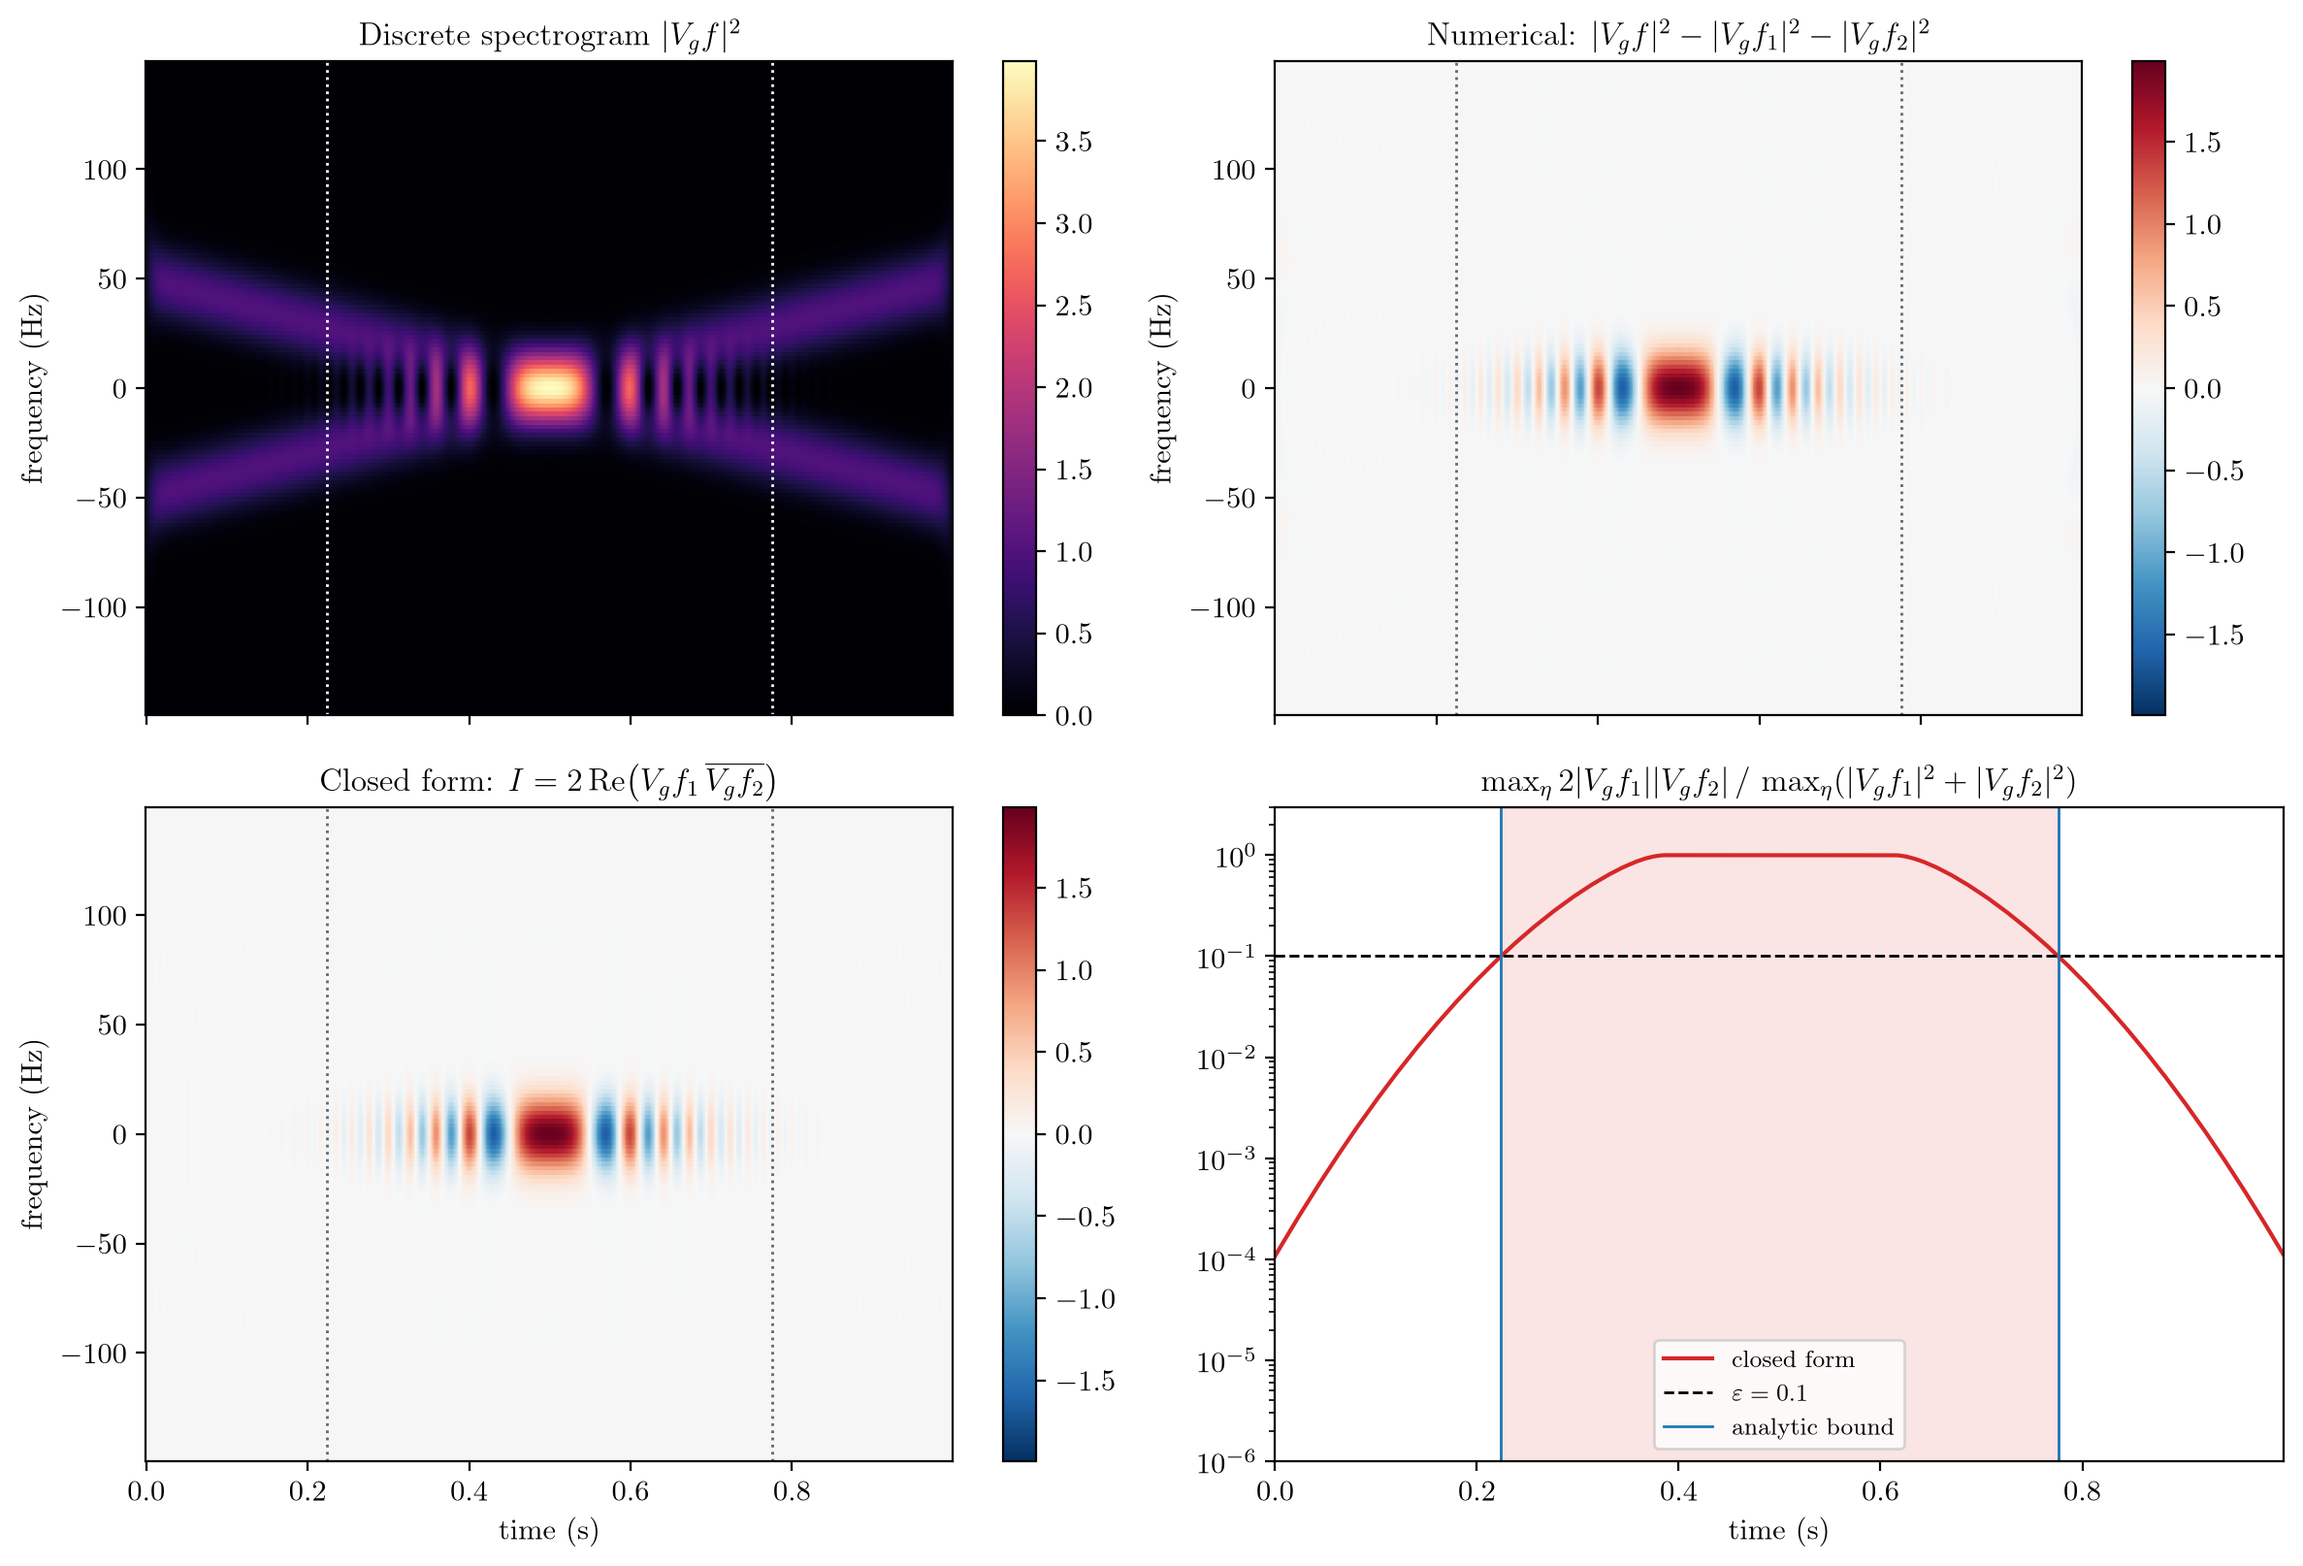
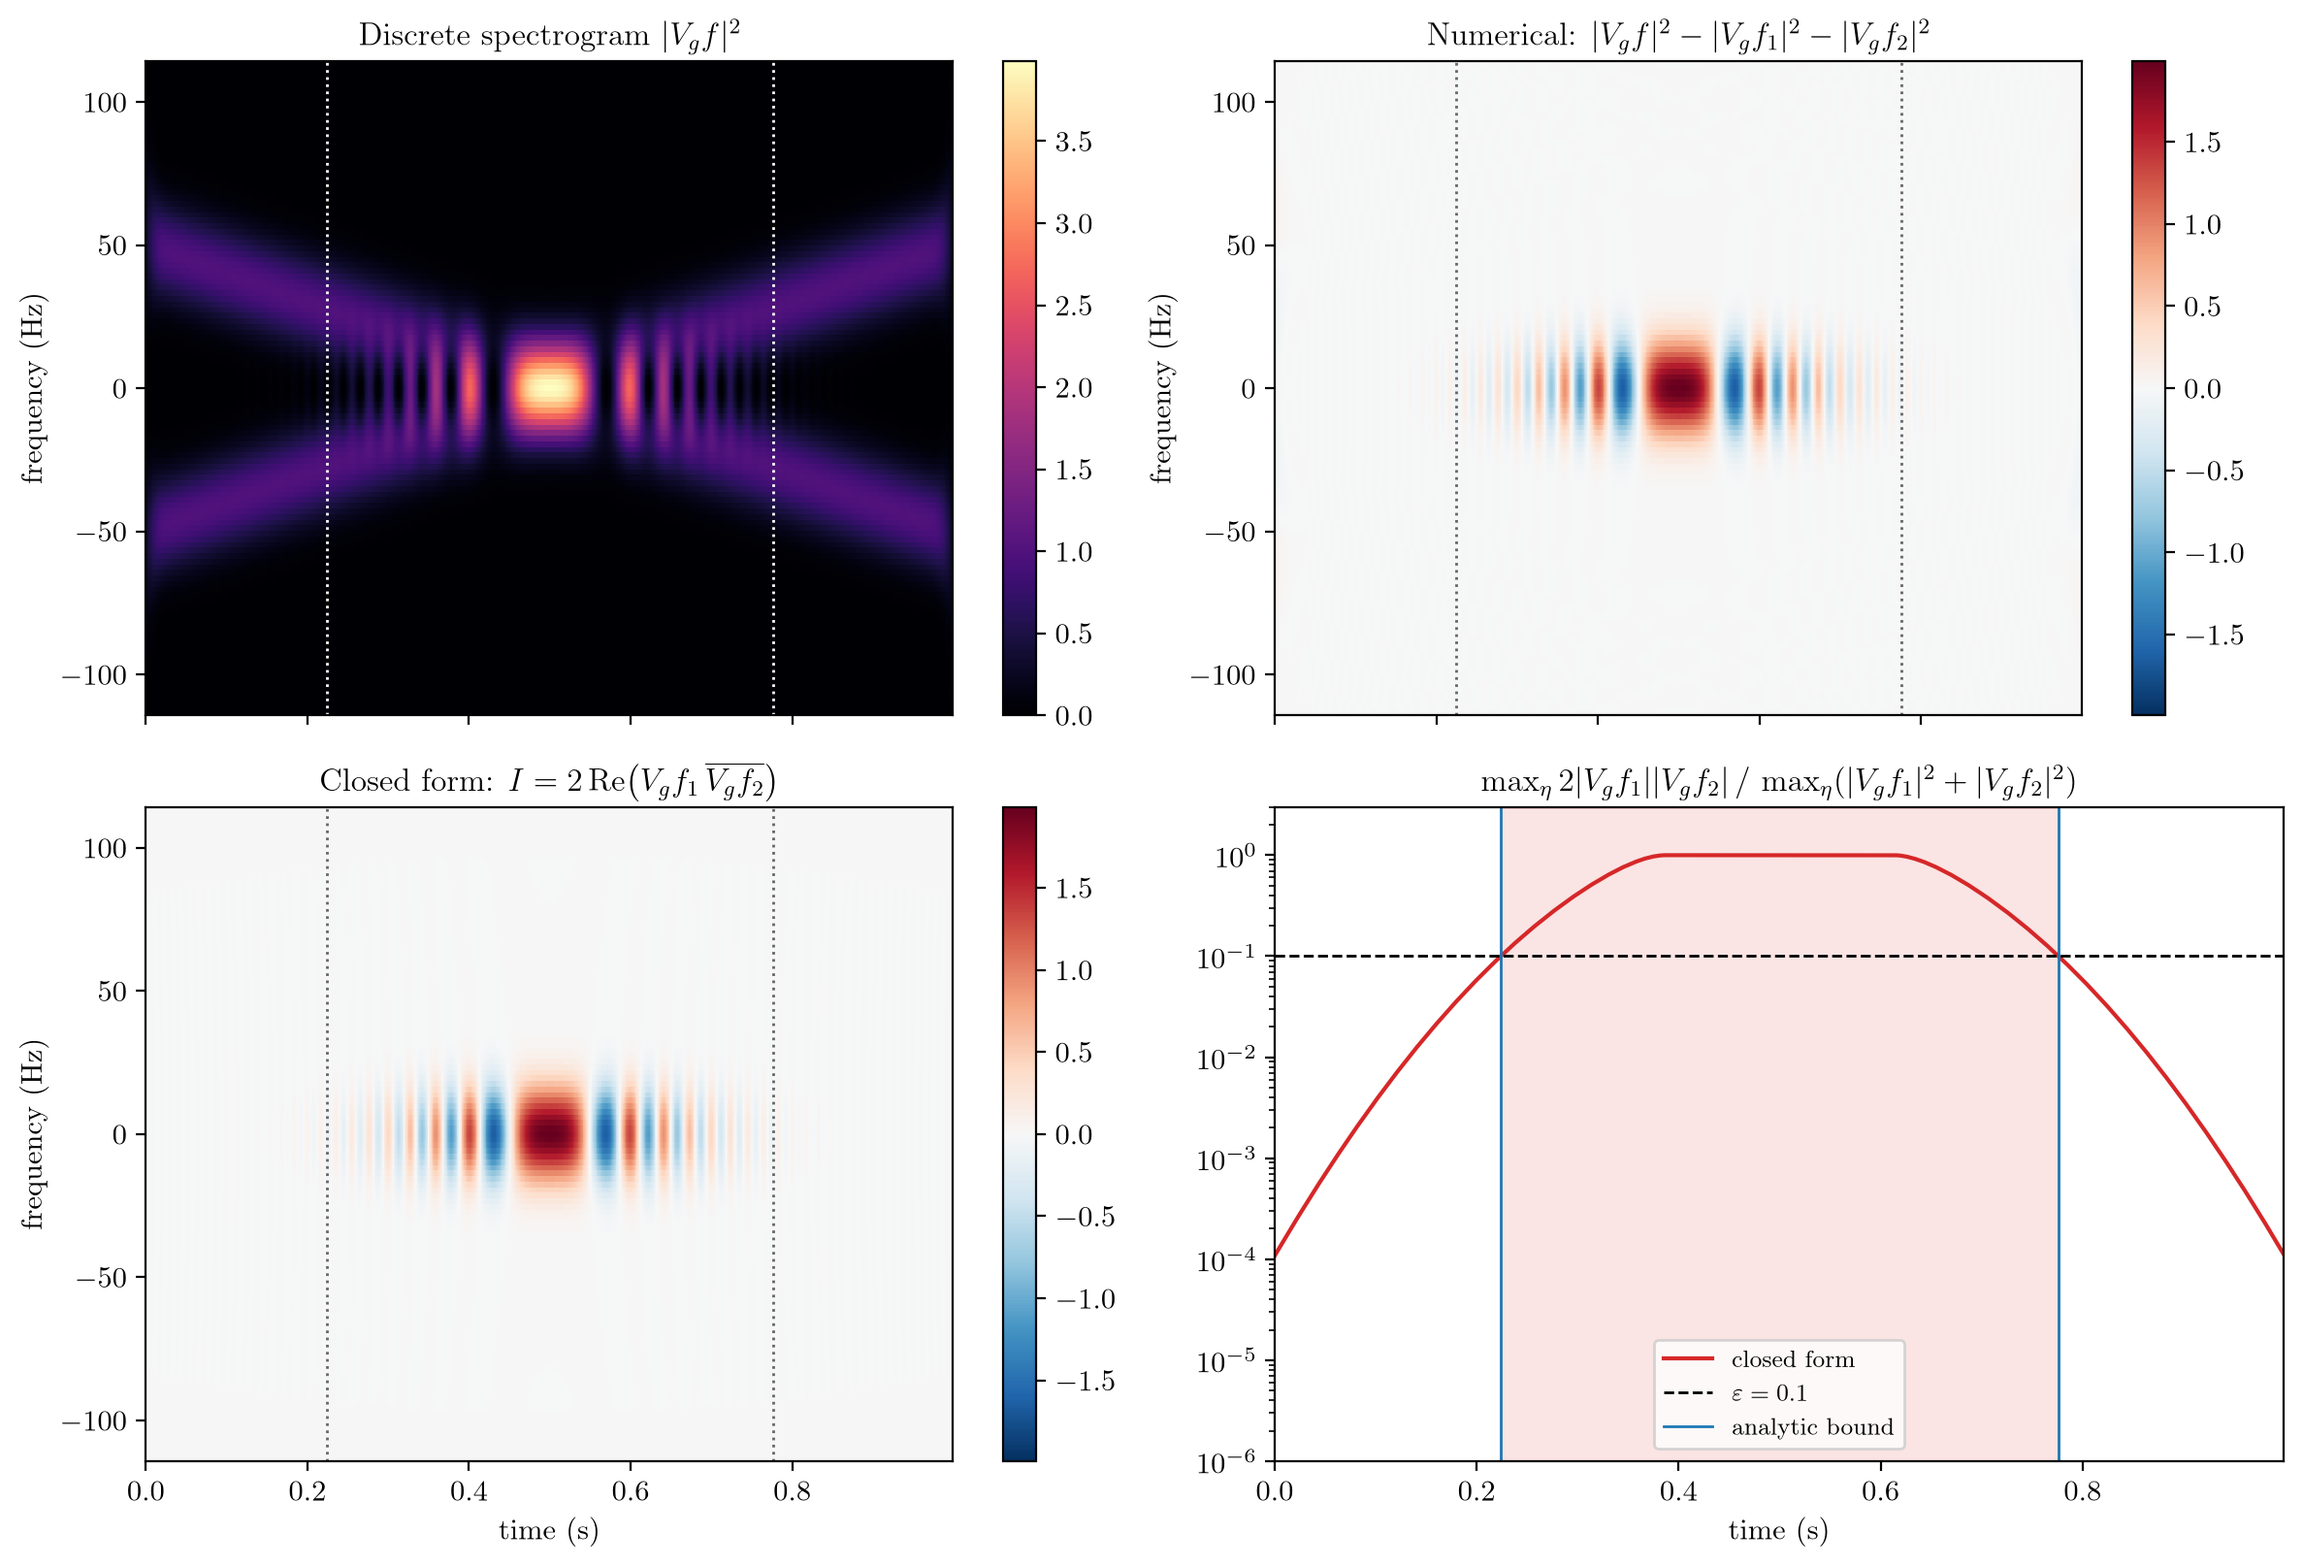
Fix axis scaling and edge handling in chirp-interference

diff --git a/python/chirp_interf/experiments/chirp_interference.py b/python/chirp_interf/experiments/chirp_interference.py
@@ -8,8 +8,9 @@ For f = f1 + f2 with rates -a and +a, the script computes:
 * the relative interference level per frame and the zone where it exceeds eps,
   together with the analytic bound Delta(t) < sqrt(D ln(2/eps)) / (pi sigma).
 
-It logs the maximal gap between the discrete and closed-form spectrograms and
-the interference zones, and saves a 2x2 figure.
+It logs the maximal gap between the discrete and closed-form spectrograms, and
+between the numerical and closed-form interference terms, on the frames whose
+window lies inside the signal; then the interference zones, and saves a 2x2 figure.
 
 Usage
 -----
@@ -33,9 +34,9 @@ from chirp_interf.plotting import configure_matplotlib, save_figure
 
 log = get_logger(__name__)
 
-#: Fraction of the signal duration excluded at each end when comparing with the
-#: closed form (zero padding biases the discrete STFT near the edges).
-EDGE = 0.05
+#: Number of ridge standard deviations kept around the instantaneous frequencies
+#: when cropping the frequency axis of the figure.
+CROP_STD = 4.0
 
 
 def parse_args() -> argparse.Namespace:
@@ -82,7 +83,11 @@ def plot(times, freqs, maps, ratio, zones, bound, args) -> plt.Figure:
     -------
     matplotlib.figure.Figure
     """
-    sel = np.abs(freqs) <= 1.5 * (args.f0 + 0.5 * args.rate)     # crop empty frequencies
+    # Crop empty frequencies: keep the range swept by the instantaneous frequencies
+    # (f0 - rate t and -f0 + rate t for t in [0, 1]) plus CROP_STD ridge standard deviations.
+    ridge_std = np.sqrt(1 + (2 * np.pi * args.rate * args.win**2) ** 2) / (2 * np.pi * args.win)
+    if_max = max(abs(args.f0), abs(args.f0 - args.rate))
+    sel = np.abs(freqs) <= if_max + CROP_STD * ridge_std
     fig, axes = plt.subplots(2, 2, figsize=(12, 8.2), sharex=True)
 
     for ax, (Z, title, cmap, symmetric) in zip(axes.flat, maps):
@@ -99,13 +104,15 @@ def plot(times, freqs, maps, ratio, zones, bound, args) -> plt.Figure:
         for x in (lo, hi):
             for a_, c in zip(axes.flat[:3], ("w", "0.4", "0.4")):    # zone limits on the maps
                 a_.axvline(x, color=c, ls=":", lw=1)
-    for x in bound:
-        ax.axvline(x, color="tab:blue", lw=1)
+    for x in bound:                                   # draw only the limits inside the signal
+        if times[0] <= x <= times[-1]:
+            ax.axvline(x, color="tab:blue", lw=1)
     ax.plot([], [], color="tab:blue", lw=1, label=r"analytic bound")   # legend entry only
     ax.set(title=r"$\max_\eta 2|V_g f_1||V_g f_2| \,/\, \max_\eta (|V_g f_1|^2 + |V_g f_2|^2)$",
            ylim=(1e-6, 3), xlabel=r"time (s)")
     ax.legend(loc="lower center")
     axes[1, 0].set_xlabel(r"time (s)")
+    axes[0, 0].set_xlim(times[0], times[-1])          # shared by all panels
     fig.tight_layout()
     return fig
 
@@ -135,9 +142,18 @@ def main() -> None:
     half = itf.symmetric_gap_threshold(a, args.win, args.eps) / (2 * args.rate)
     tc = (b2 - b1) / (2 * a)
 
-    inner = (times > EDGE) & (times < times[-1] - EDGE)
-    err = np.max(np.abs(np.abs(V) ** 2 - (E1 + E2 + I))[:, inner])
-    log.info("max | |V_g f|^2 - closed form | = %.2e (peak %.3f)", err, np.max(np.abs(V) ** 2))
+    # Compare only the frames whose window lies entirely inside the signal: elsewhere
+    # the zero padding of the discrete STFT departs from the closed form on R.
+    half_window = (len(g) - 1) / 2 / args.fs
+    inner = (times >= half_window) & (times <= times[-1] - half_window)
+    if inner.any():
+        err = np.max(np.abs(np.abs(V) ** 2 - (E1 + E2 + I))[:, inner])
+        err_I = np.max(np.abs(I_num - I)[:, inner])
+        log.info("on [%.3f, %.3f] s (window inside the signal):", times[inner][0], times[inner][-1])
+        log.info("  max | |V_g f|^2 - (E1 + E2 + I) | = %.2e (peak %.3f)", err, np.max(np.abs(V) ** 2))
+        log.info("  max | I numerical - I closed form | = %.2e (peak %.3f)", err_I, np.max(np.abs(I)))
+    else:
+        log.warning("window (half-length %.3f s) longer than half the signal: no frame to compare", half_window)
     log.info("interference zones (eps = %g): %s s", args.eps, [(round(lo, 3), round(hi, 3)) for lo, hi in zones])
     log.info("analytic bound: [%.3f, %.3f] s", tc - half, tc + half)
 

diff --git a/README.md b/README.md
@@ -400,7 +400,7 @@ They cross at $`t = 0.5`$ s. The Gaussian window has standard deviation $`\sigma
 
 <br>
 
-The comparison excludes 50 ms at each end of the signal, where zero padding biases the discrete STFT.
+The comparison only uses the frames whose window lies entirely inside the signal (here $`t \in [0.04,\ 0.96]`$ s) : near the edges, zero padding biases the discrete STFT. On the same frames, the interference term alone matches its closed form to $`1.7 \cdot 10^{-4}`$ (peak $`1.99`$).
 
 <br>
 
